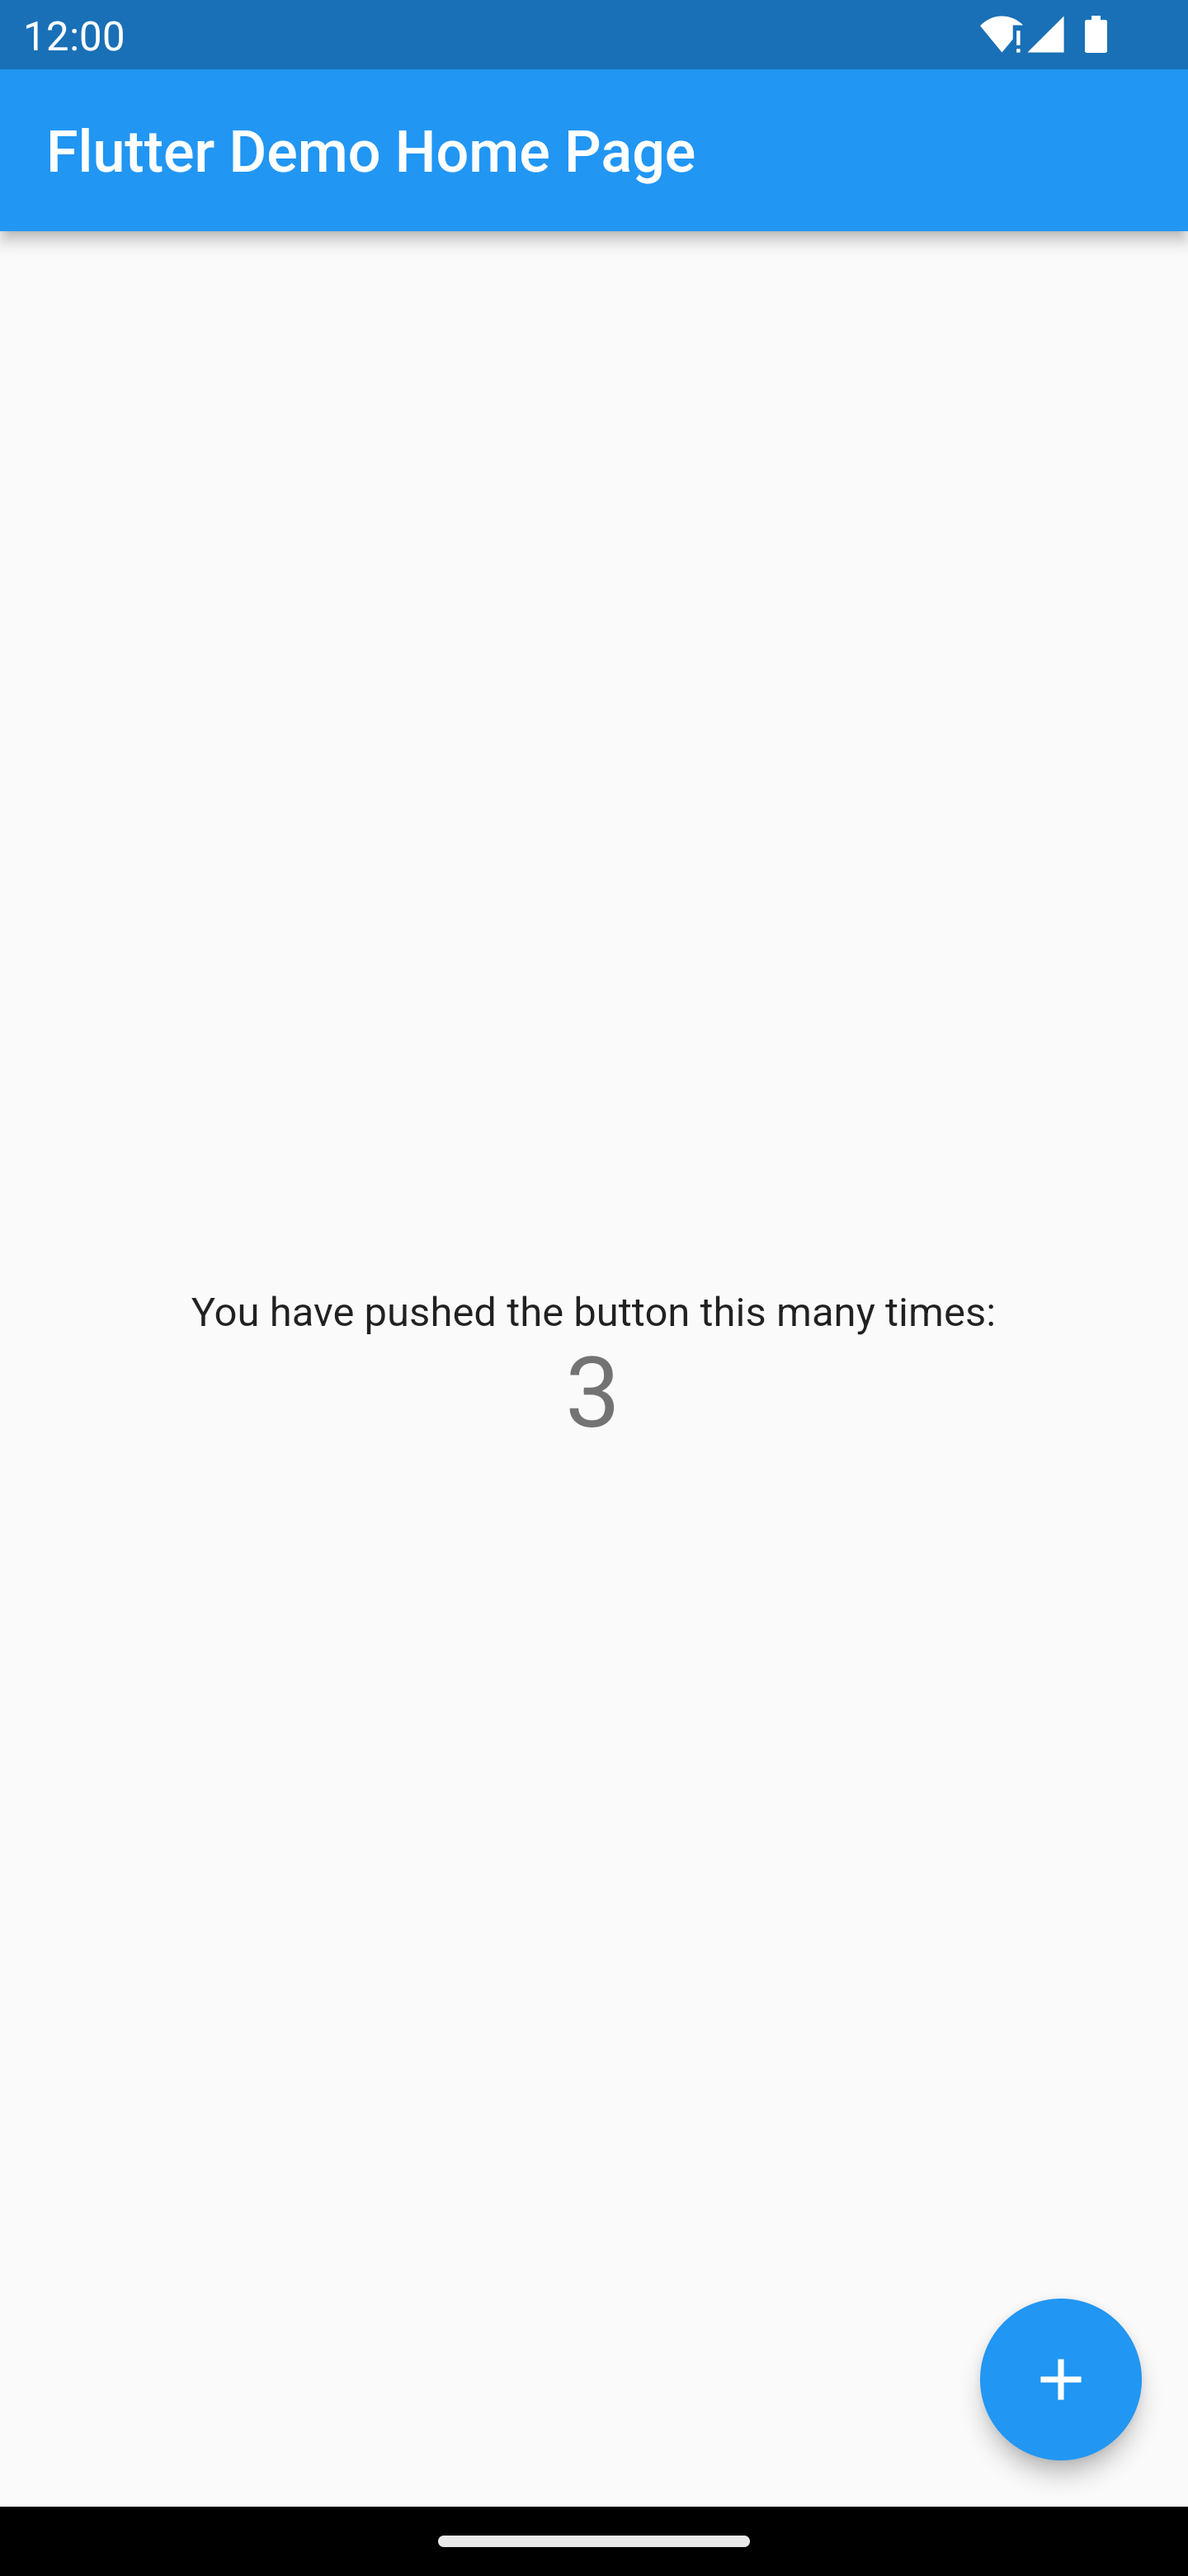
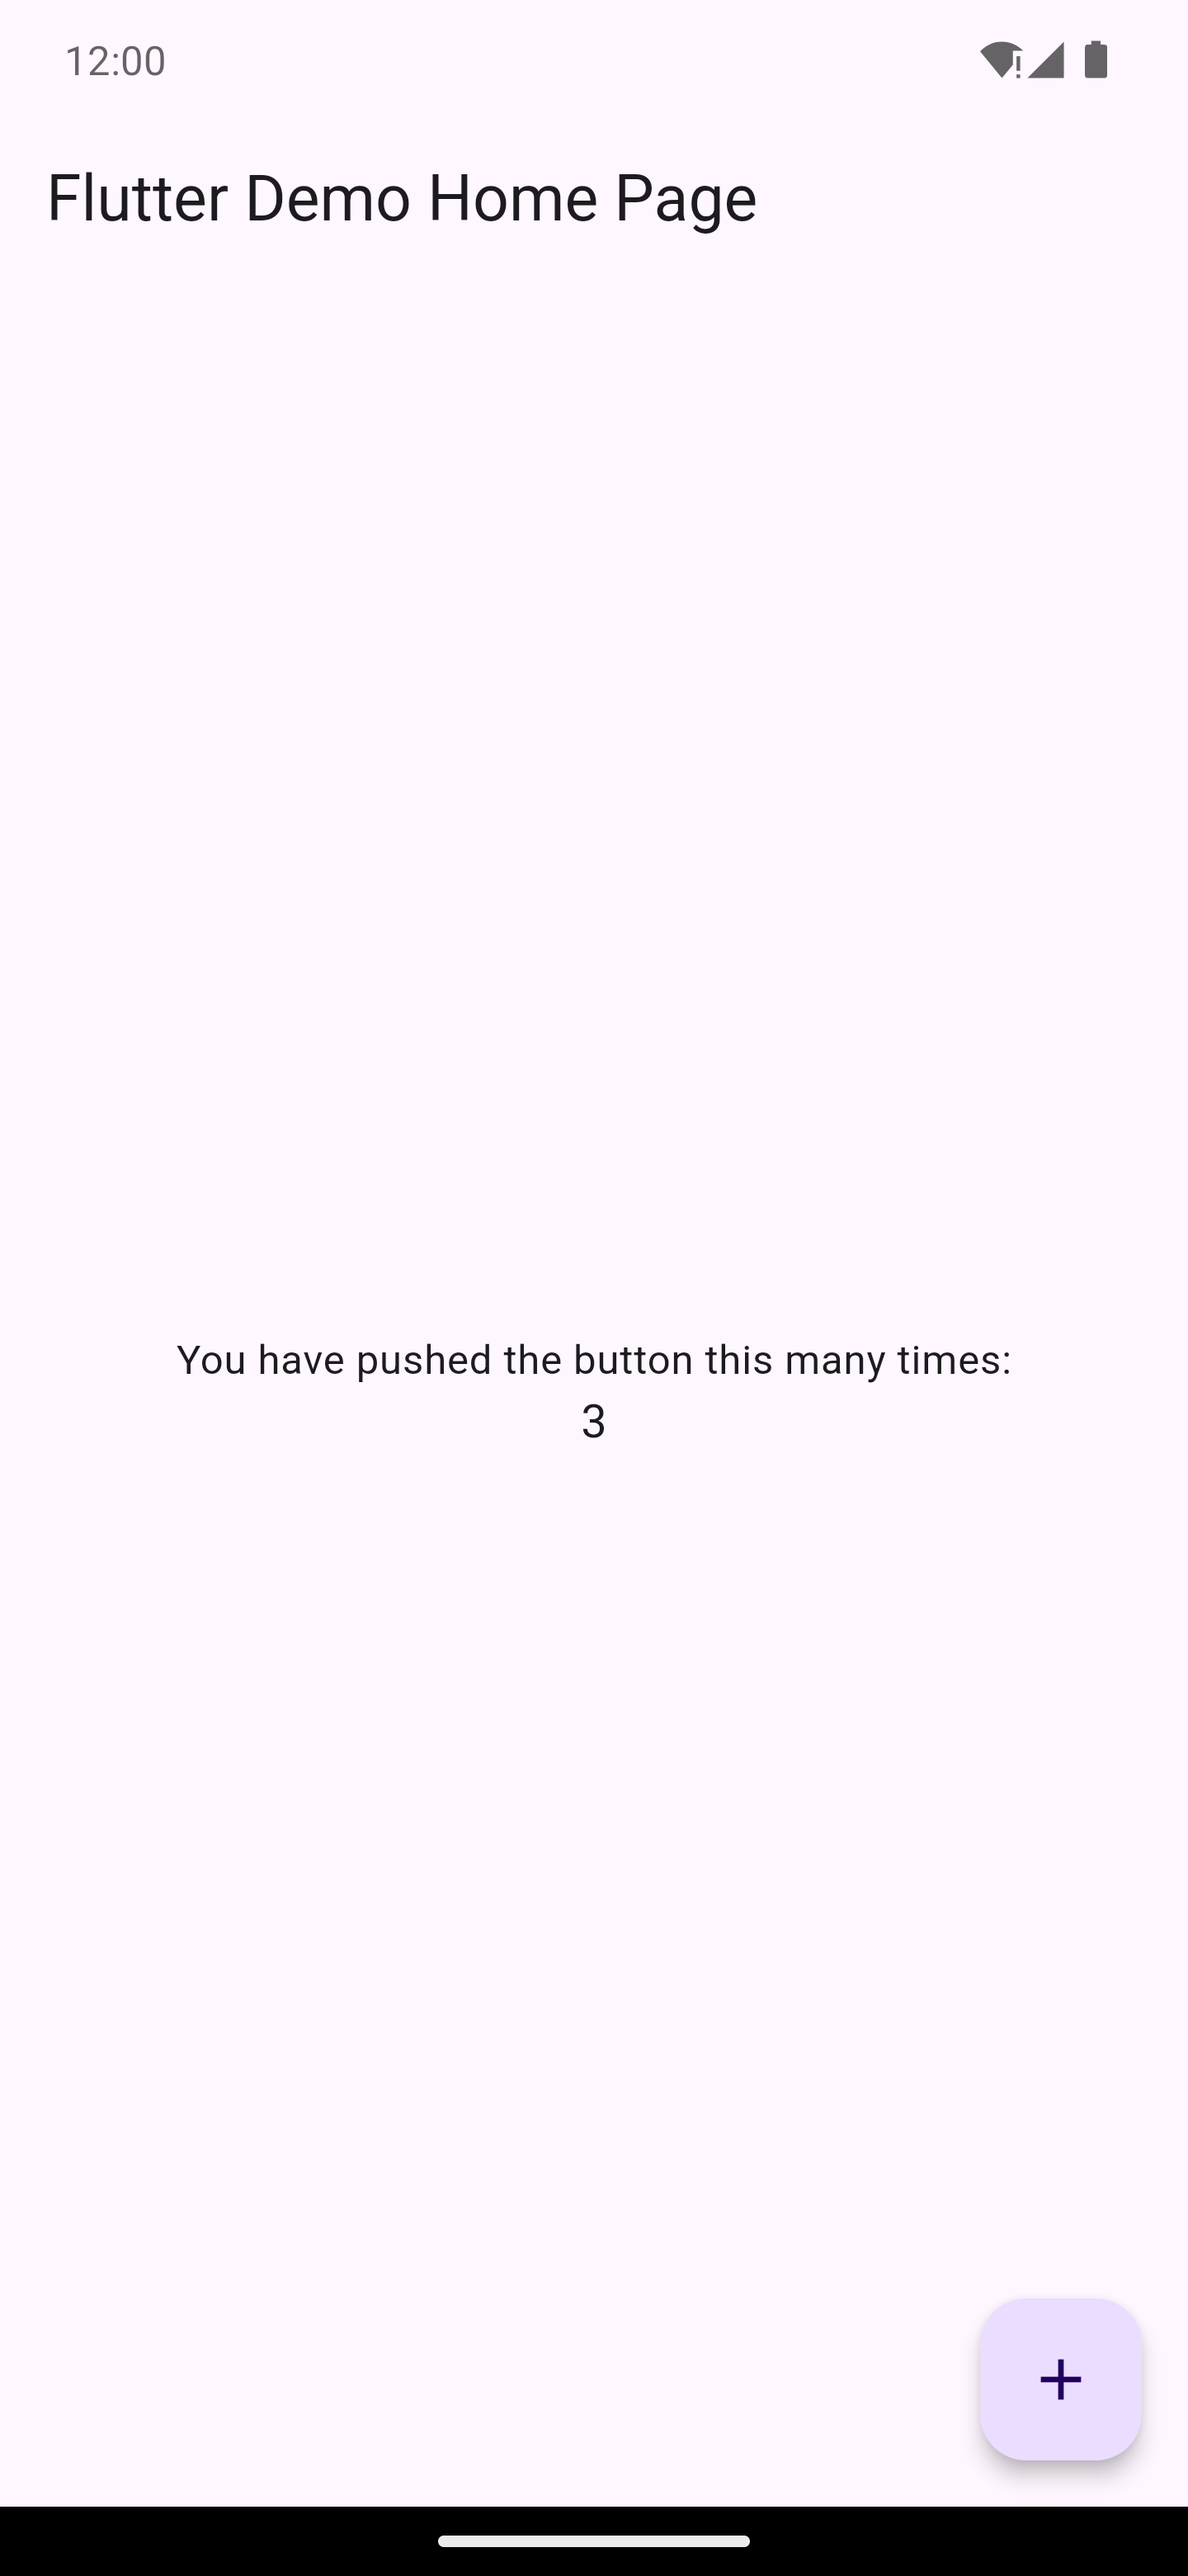
auto screenshot 3.22.2

Changed region(s): [[0.0, 0.0, 1.0, 0.0933], [0.1562, 0.4974, 0.8438, 0.5596], [0.8125, 0.8705, 0.9688, 0.9638]]

diff --git a/lib/main.dart b/lib/main.dart
@@ -100,7 +100,7 @@ class _MyHomePageState extends State<MyHomePage> {
             ),
             Text(
               '$_counter',
-              style: Theme.of(context).textTheme.headline4,
+              style: Theme.of(context).textTheme.bodyLarge,
             ),
           ],
         ),
